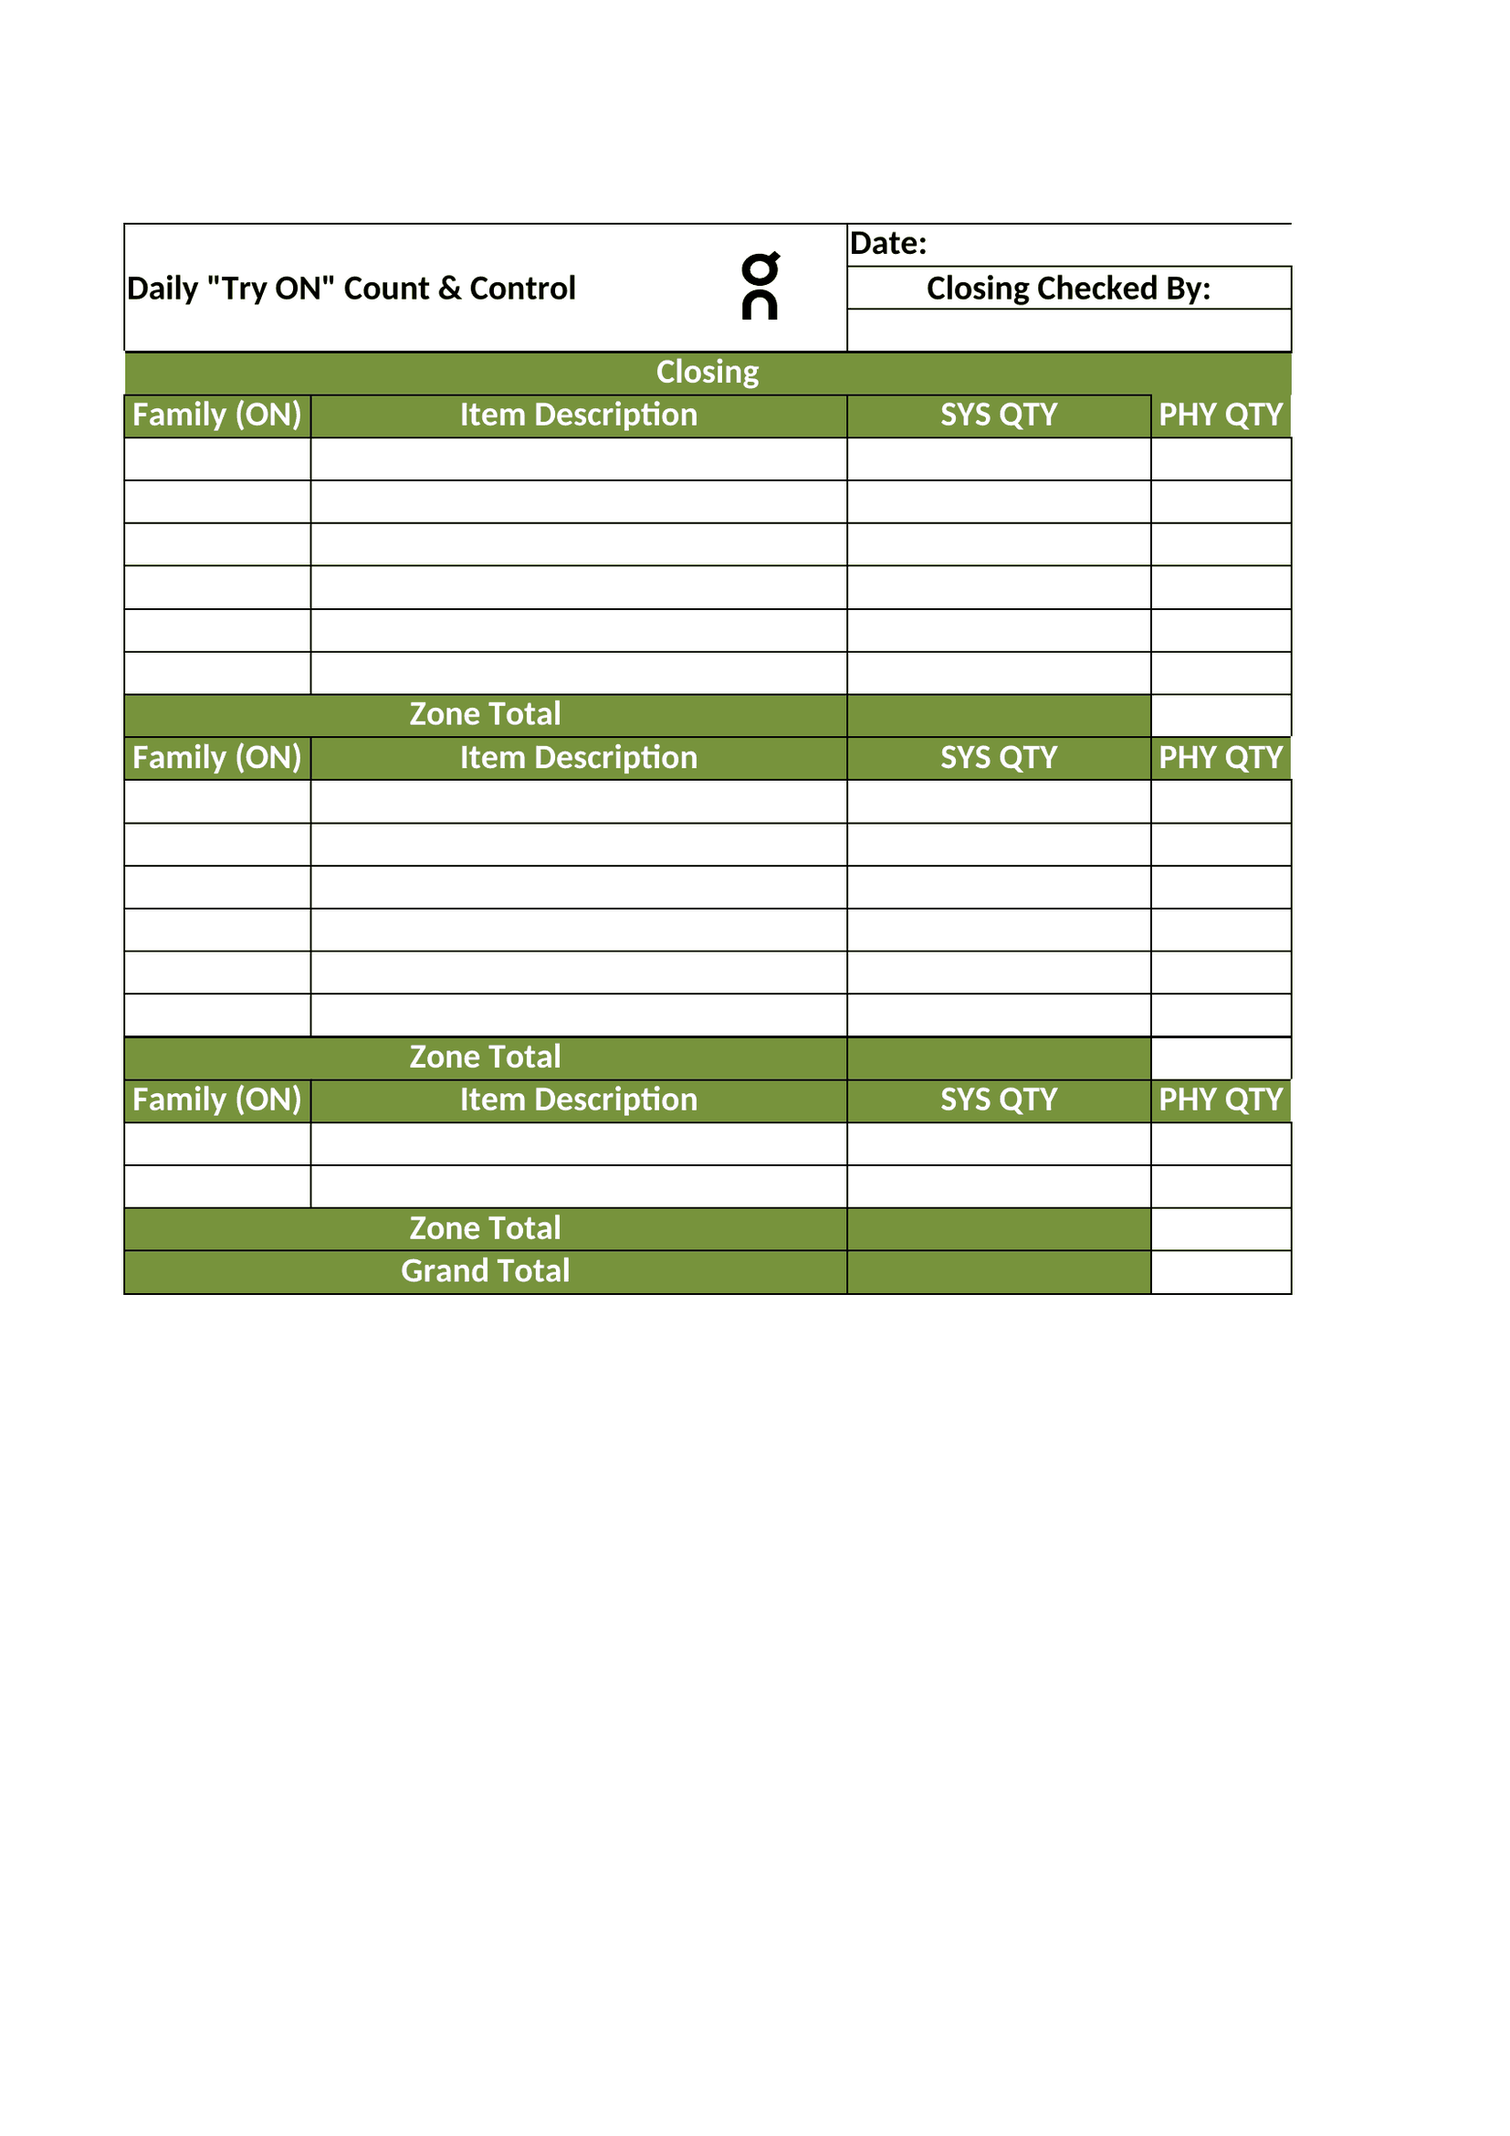
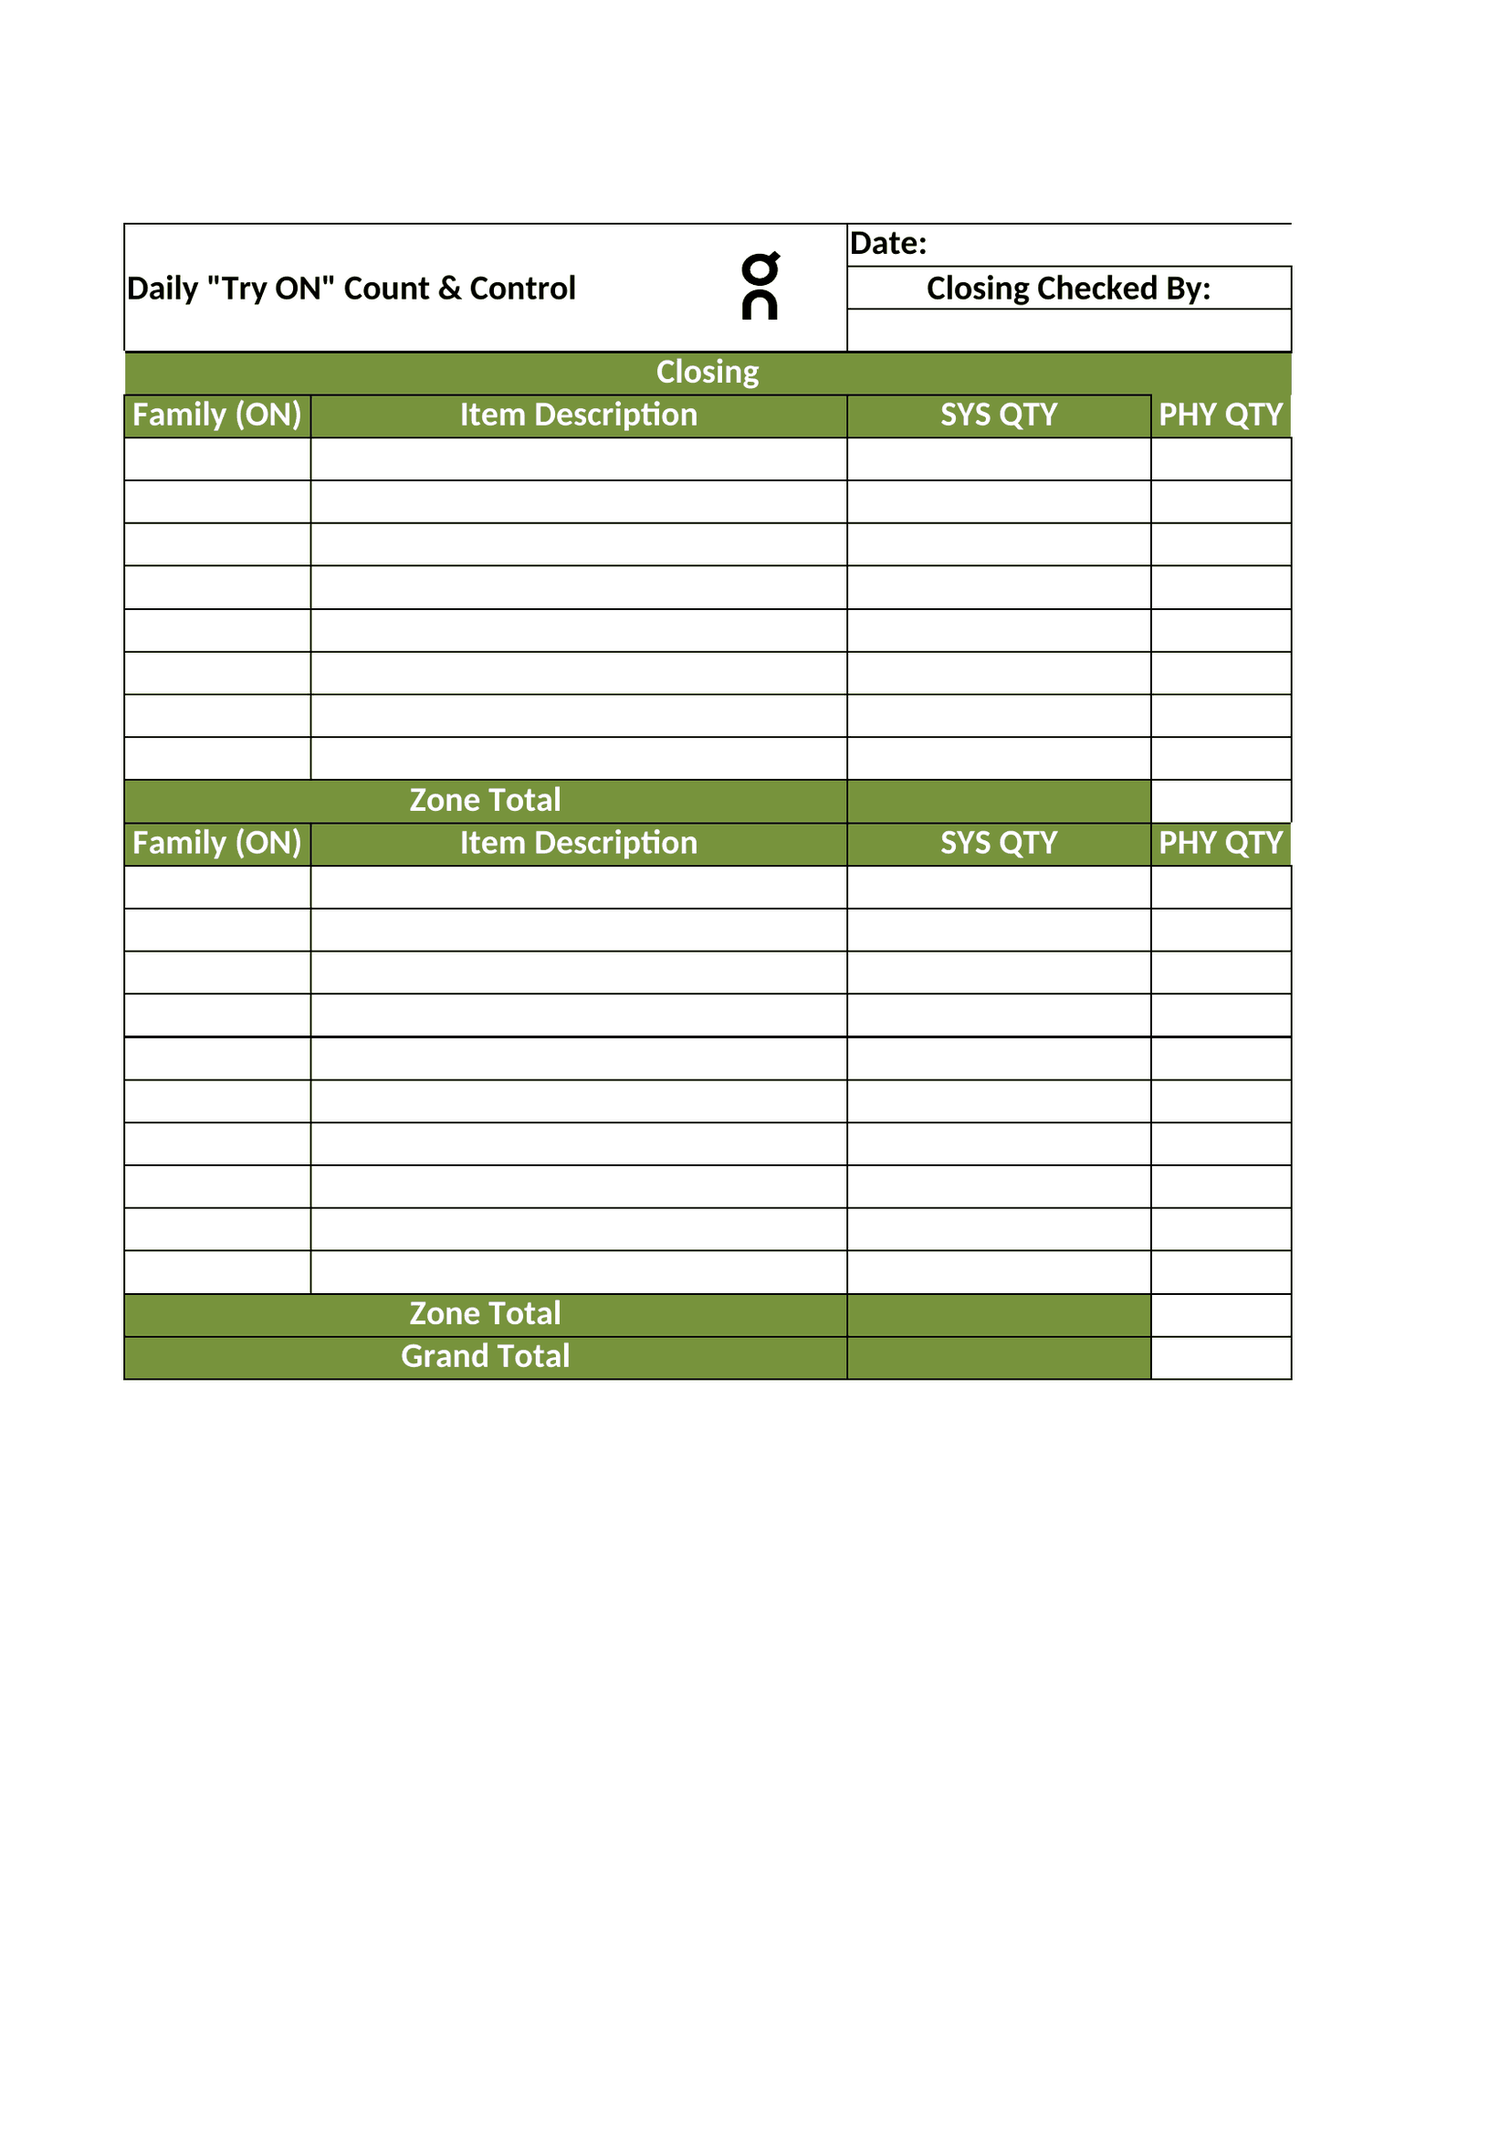
Update Try ON list to the 18 floor models
Two walls of 8 and 10 models; the printed Try ON form now has 8 and 10
lines to match, and the count is split by wall.

Claude-Session: https://claude.ai/code/session_01BJyxJzqPMVHUHuDQS33MQi

Changed region(s): [[0.0617, 0.3121, 0.8634, 0.4057], [0.0617, 0.5618, 0.7709, 0.6554], [0.0617, 0.4681, 0.8634, 0.5306]]

diff --git a/index.html b/index.html
@@ -493,9 +493,14 @@ const BINDER = [["A", "Opening and Closing Checklist", ["opening", "closing"]], 
   ["O", "Daily Random Stock Check", ["stockcheck"]], ["Q", "Stock Discrepancy Summary", ["discrepancy"]], ["R", "Daily Cash Handover", ["cashhandover"]], ["S", "Banking Deposit Log", ["banking"]],
   ["T", "Permit Copies", []], ["XYZ", "Return / Refund Log, Product of the Week sheet and others", ["refund", "potw"]]];
 
+/* Try ON models on the shop floor: two walls. Settings can replace this list. */
+const TRY_CAP = { z1: 8, z2: 10 };
+const TRYON_DEF = { z1: ["Cloudboom Max", "Cloudmonster 3", "Cloudsurfer Max", "Cloudsurfer 2", "Cloudrunner 3", "Cloudpulse 2", "Cloud X Tempo Pro", "Cloud X 5"].map(item => ({ fam: "Wall 1", item, sys: "" })),
+  z2: ["Cloud 6", "Cloud 6 Coast", "Cloud 6 Versa", "Cloudtilt", "Cloudswift 4", "Cloudnova 2", "Cloudzone 99", "Cloud Muse", "THE ROGER Advantage", "THE ROGER Pro 3"].map(item => ({ fam: "Wall 2", item, sys: "" })) };
+const tryonCfg = () => { const c = S.cfg || {}, t = c.tryonV === 2 && c.tryon ? c.tryon : TRYON_DEF; return { z1: (t.z1 || []).slice(0, TRY_CAP.z1), z2: (t.z2 || []).slice(0, TRY_CAP.z2) }; };
 function tryonFields() {                     // one question per try-on model
-  const t = (S.cfg && S.cfg.tryon) || {}; const out = [];
-  ["z1", "z2", "z3"].forEach(z => (t[z] || []).forEach((it, i) => { if (it && it.item) out.push({ k: `${z}_${i}`, g: z, t: "num", q: q(`${it.item}: how many pairs are on the floor?`, `${it.item}: كم زوجاً موجود في الصالة؟`), hint: it.sys !== "" && it.sys != null ? q(`System quantity: ${it.sys}`, `كمية النظام: ${it.sys}`) : null }); }));
+  const t = tryonCfg(); const out = [];
+  ["z1", "z2"].forEach(z => (t[z] || []).forEach((it, i) => { if (it && it.item) out.push({ k: `${z}_${i}`, g: z, t: "num", q: q(`${it.item}: how many pairs are on the floor?`, `${it.item}: كم زوجاً موجود في الصالة؟`), hint: it.sys !== "" && it.sys != null ? q(`System quantity: ${it.sys}`, `كمية النظام: ${it.sys}`) : null }); }));
   out.push({ k: "checkedBy", t: "staff", q: q("Closing checked by", "تم الفحص عند الإغلاق بواسطة"), def: "me" });
   return out;
 }
@@ -629,15 +634,15 @@ const SHEETS = {
     const ty = lin(506, 626, 8), xs = [18, 100, 161, 221, 349, 444];
     (d.team || []).slice(0, 8).forEach((m, i) => [shortName(m.who), m.timing, m.ysale && money(m.ysale), m.ttarget && money(m.ttarget), m.mtd].forEach((v, ci) => tx(c, v, xs[ci], ty[i], xs[ci + 1], ty[i + 1], { max: 7, bold: ci === 0 })));
   } }]; },
-  tryon(r) { const d = r.data, t = (S.cfg && S.cfg.tryon) || {}; return [{ bg: "tryon", draw(c) {
+  tryon(r) { const d = r.data, t = tryonCfg(); return [{ bg: "tryon", draw(c) {
     tx(c, fmtD(r.date), 366, 88, 508, 105, { align: "l", max: 9 }); tx(c, nameId(d.checkedBy), 336, 122, 508, 139, { max: 8 });
-    const zones = [["z1", 173, 274, 6, 274], ["z2", 308, 409, 6, 409], ["z3", 443, 476.5, 2, 476.5]]; let gs = 0, gp = 0, anyS = false, anyP = false;
+    const zones = [["z1", 173, 307.6, 8, 307.6], ["z2", 341.3, 509.6, 10, 509.6]]; let gs = 0, gp = 0, anyS = false, anyP = false;
     zones.forEach(([z, a, b, n, ty]) => { const ys = lin(a, b, n); let ss = 0, sp = 0, hs = false, hp = false;
       (t[z] || []).slice(0, n).forEach((it, i) => { if (!it || !it.item) return; const p = d[`${z}_${i}`];
         tx(c, it.fam, 49, ys[i], 123, ys[i + 1], { align: "l", max: 9 }); tx(c, it.item, 123, ys[i], 334, ys[i + 1], { align: "l", max: 9 }); tx(c, it.sys, 334, ys[i], 454, ys[i + 1], { max: 9 }); tx(c, p, 454, ys[i], 509, ys[i + 1], { max: 9 });
         if (num(it.sys) !== null) { ss += num(it.sys); hs = true; } if (num(p) !== null) { sp += num(p); hp = true; } });
       if (hs) { tx(c, ss, 334, ty, 454, ty + 16.8, { max: 9, bold: 1 }); gs += ss; anyS = true; } if (hp) { tx(c, sp, 454, ty, 509, ty + 16.8, { max: 9, bold: 1 }); gp += sp; anyP = true; } });
-    if (anyS) tx(c, gs, 334, 493.3, 454, 510, { max: 9, bold: 1 }); if (anyP) tx(c, gp, 454, 493.3, 509, 510, { max: 9, bold: 1 });
+    if (anyS) tx(c, gs, 334, 526.6, 454, 543.4, { max: 9, bold: 1 }); if (anyP) tx(c, gp, 454, 526.6, 509, 543.4, { max: 9, bold: 1 });
   } }]; },
   feedback(r) { const d = r.data; return [{ bg: "feedback", draw(c) {
     tx(c, storeLine(), 47, 115, 279, 125, { align: "l", max: 7 }); tx(c, fmtD(r.date), 320, 115, 558, 125, { align: "l", max: 7 });
@@ -750,9 +755,9 @@ function defaultWho(id, date) {
 const GROUP_ROLE = { floor: "ss", cash: "dsm", stock: "sc", admin: "dsm", exit: "dsm" };
 const roleWho = (role, date) => { const c = staffList().filter(s => s.role === role && !isOff(date, s.id)); return c.length ? c[0].id : ""; };
 const splitable = f => (f.kind === "check" && !f.weekly) || !!f.zones;
-const groupLabel = (id, g) => { if (!FORMS[id].zones) return L(GROUPS[g]); const z = ((S.cfg && S.cfg.tryon) || {})[g] || [], n = z.filter(i => i && i.item).length, fam = (z.find(i => i && i.fam) || {}).fam; return `${fam || "Part " + g.slice(1)} (${n})`; };
-function groupWho(id, g, date) { if (!FORMS[id].zones) return roleWho(GROUP_ROLE[g], date); const l = staffList().filter(s => (s.role === "ss" || s.role === "sa") && !isOff(date, s.id)); return l.length ? l[["z1", "z2", "z3"].indexOf(g) % l.length].id : ""; }
-function groupsOf(id) { if (FORMS[id].zones) return ["z1", "z2", "z3"].filter(z => (((S.cfg && S.cfg.tryon) || {})[z] || []).some(i => i && i.item)); const seen = []; FORMS[id].items.forEach(it => { if (!seen.includes(it.g)) seen.push(it.g); }); return seen; }
+const groupLabel = (id, g) => { if (!FORMS[id].zones) return L(GROUPS[g]); const z = tryonCfg()[g] || [], n = z.filter(i => i && i.item).length, fam = (z.find(i => i && i.fam) || {}).fam; return `${fam || "Part " + g.slice(1)} (${n})`; };
+function groupWho(id, g, date) { if (!FORMS[id].zones) return roleWho(GROUP_ROLE[g], date); const l = staffList().filter(s => (s.role === "ss" || s.role === "sa") && !isOff(date, s.id)); return l.length ? l[["z1", "z2"].indexOf(g) % l.length].id : ""; }
+function groupsOf(id) { if (FORMS[id].zones) return ["z1", "z2"].filter(z => (tryonCfg()[z] || []).some(i => i && i.item)); const seen = []; FORMS[id].items.forEach(it => { if (!seen.includes(it.g)) seen.push(it.g); }); return seen; }
 function taskDone(id, date, group) {
   const f = FORMS[id], rid2 = runId(id, date), [a, b] = periodOf(id, date);
   if (f.kind === "check") { const r = S.recs.get(rid2); if (!r) return false; if (!group) return !!r.done; return f.items.filter(it => it.g === group).every(it => r.data.items && r.data.items[it.id]); }
@@ -1514,14 +1519,14 @@ function myDayCard(me) {
 /* ===================== settings ===================== */
 const FREQS = [["daily", "Every day", "كل يوم"], ["weekly", "Every week", "كل أسبوع"], ["monthly", "Every month", "كل شهر"], ["quarterly", "Every quarter", "كل ربع سنة"], ["event", "Only when it happens", "عند الحدوث فقط"]];
 VIEWS.config = () => {
-  const tab = R.tab || "team", st = S.cfg.store || {}, hd = S.cfg.huddle || {}, ty = S.cfg.tryon || {};
+  const tab = R.tab || "team", st = S.cfg.store || {}, hd = S.cfg.huddle || {}, ty = tryonCfg();
   const tabs = [["team", LANG === "ar" ? "الفريق" : "Team"], ["sched", LANG === "ar" ? "الجدول" : "Schedule"], ["store", LANG === "ar" ? "المتجر" : "Store"], ["lists", LANG === "ar" ? "القوائم" : "Lists"]];
   let h = `<h1>${T("config")}</h1><div class="row">${tabs.map(([k, l]) => `<button class="chip ${tab === k ? "acc" : ""}" data-tab="${k}" style="border:0;padding:9px 14px;font-size:.9rem">${l}</button>`).join("")}</div>`;
   if (tab === "team") h += `<div class="list">${staffList(true).map(s => `<button data-st="${esc(s.id)}" class="row" style="text-align:start;background:none;border-left:0;border-right:0;border-bottom:0;width:100%"><span class="grow"><b>${esc(s.name)}</b><div class="small muted">${esc(L(ROLES[s.role]))} · <span class="num">${esc(s.id)}</span>${s.active === false ? " · " + (LANG === "ar" ? "غير نشط" : "not active") : ""}${s.pin ? "" : " · " + (LANG === "ar" ? "لم يحدد رقماً سرياً بعد" : "no PIN yet")}</div></span>${ICON.chev}</button>`).join("")}</div><button class="btn soft" id="cfAdd">+ ${LANG === "ar" ? "إضافة موظف" : "Add a team member"}</button>`;
   if (tab === "store") h += `<div class="card stack"><div class="field"><label for="cfName">${LANG === "ar" ? "اسم المتجر (كما يُطبع)" : "Store name (as printed on the forms)"}</label><input class="in" id="cfName" value="${esc(st.name || "")}"></div><div class="field"><label for="cfCode">${LANG === "ar" ? "رمز الموقع" : "Location code"}</label><input class="in" id="cfCode" value="${esc(st.code || "")}"></div><button class="btn" id="cfStore">${T("save")}</button></div>
     <p class="muted small">${LANG === "ar" ? "متجر آخر؟ اطلب نسخة خاصة به من هذا التطبيق، ثم غيّر الاسم والفريق والجدول هنا." : "Another store needs its own copy of this app. It then sets its own name, team and schedule here."}</p>`;
   if (tab === "lists") h += `<div class="card stack"><h3>${LANG === "ar" ? "أرقام الاجتماع اليومي الثابتة" : "Daily Huddle: numbers that stay the same"}</h3>${[["monthTarget", "Month target (SAR)"], ["uptGoal", "UPT goal"], ["atvGoal", "ATV goal (SAR)"], ["convGoal", "Conversion goal (%)"]].map(([k, l]) => `<div class="field"><label for="hd_${k}">${l}</label><input class="in num" id="hd_${k}" inputmode="decimal" value="${esc(hd[k] || "")}"></div>`).join("")}<button class="btn" id="cfHud">${T("save")}</button></div>
-    <div class="card stack"><h3>${LANG === "ar" ? "قائمة أحذية التجربة" : "Try ON shoe list"}</h3><p class="small muted">${LANG === "ar" ? "سطر لكل موديل: الفئة، اسم الموديل، كمية النظام." : "One line per model: family, model name, system quantity."}</p>${[["z1", "Zone 1 (up to 6 lines)"], ["z2", "Zone 2 (up to 6 lines)"], ["z3", "Zone 3 (up to 2 lines)"]].map(([z, l]) => `<div class="field"><label for="ty_${z}">${l}</label><textarea class="in" id="ty_${z}" rows="${z === "z3" ? 3 : 6}">${esc((ty[z] || []).map(i => [i.fam, i.item, i.sys].join(", ")).join("\n"))}</textarea></div>`).join("")}<button class="btn" id="cfTry">${T("save")}</button></div>`;
+    <div class="card stack"><h3>${LANG === "ar" ? "قائمة أحذية التجربة" : "Try ON shoe list"}</h3><p class="small muted">${LANG === "ar" ? "سطر لكل موديل: الفئة، اسم الموديل، كمية النظام." : "One line per model: family, model name, system quantity."}</p>${[["z1", "Wall 1 (up to 8 lines)"], ["z2", "Wall 2 (up to 10 lines)"]].map(([z, l]) => `<div class="field"><label for="ty_${z}">${l}</label><textarea class="in" id="ty_${z}" rows="${z === "z1" ? 8 : 10}">${esc((ty[z] || []).map(i => [i.fam, i.item, i.sys].join(", ")).join("\n"))}</textarea></div>`).join("")}<button class="btn" id="cfTry">${T("save")}</button></div>`;
   if (tab === "sched") h += `<p class="muted">${LANG === "ar" ? "متى يُطلب كل نموذج ومن ينفذه افتراضياً. يمكنك تغيير أي يوم من صفحة الخطة." : "When each form is due and who does it by default. Any single day can be changed on the Plan page."}</p><div class="stack">${FORM_ORDER.map(id => { const c = cfgForm(id), f = FORMS[id]; return `<div class="card stack" data-fc="${id}"><div class="row"><span class="chip acc">${esc(f.letter)}</span><b class="grow">${esc(L(f.title))}</b><label class="row small" style="gap:6px"><input type="checkbox" data-f="on" ${c.on !== false ? "checked" : ""} style="width:20px;height:20px">${LANG === "ar" ? "مفعّل" : "In use"}</label></div>
       <div class="row"><select class="in grow" data-f="freq" aria-label="How often">${FREQS.map(([v, en, ar]) => `<option value="${v}" ${c.freq === v ? "selected" : ""}>${LANG === "ar" ? ar : en}</option>`).join("")}</select>
       ${c.freq === "weekly" ? `<select class="in" data-f="dow" style="width:auto" aria-label="Day">${DOW.map((n, i) => `<option value="${i}" ${(c.dow ?? 0) === i ? "selected" : ""}>${(LANG === "ar" ? DOW_AR : DOW)[i]}</option>`).join("")}</select>` : ""}
@@ -1537,7 +1542,7 @@ HOOKS.config = app => {
   const add = $("#cfAdd", app); if (add) add.onclick = () => staffEditor(null);
   const sv = $("#cfStore", app); if (sv) sv.onclick = () => { Data.saveCfg({ store: { name: $("#cfName", app).value.trim(), code: $("#cfCode", app).value.trim() } }); toast(T("saved")); };
   const hu = $("#cfHud", app); if (hu) hu.onclick = () => { const o2 = {}; ["monthTarget", "uptGoal", "atvGoal", "convGoal"].forEach(k => { o2[k] = $("#hd_" + k, app).value.trim(); }); Data.saveCfg({ huddle: o2 }); toast(T("saved")); };
-  const tr = $("#cfTry", app); if (tr) tr.onclick = () => { const o2 = {}; [["z1", 6], ["z2", 6], ["z3", 2]].forEach(([z, n]) => { o2[z] = $("#ty_" + z, app).value.split("\n").map(l => l.trim()).filter(Boolean).slice(0, n).map(l => { const p = l.split(",").map(x => x.trim()); return { fam: p[0] || "", item: p[1] || "", sys: p[2] || "" }; }); }); Data.saveCfg({ tryon: o2 }); toast(T("saved")); };
+  const tr = $("#cfTry", app); if (tr) tr.onclick = () => { const o2 = {}; [["z1", 8], ["z2", 10]].forEach(([z, n]) => { o2[z] = $("#ty_" + z, app).value.split("\n").map(l => l.trim()).filter(Boolean).slice(0, n).map(l => { const p = l.split(",").map(x => x.trim()); return { fam: p[0] || "", item: p[1] || "", sys: p[2] || "" }; }); }); Data.saveCfg({ tryonV: 2, tryon: o2 }); toast(T("saved")); };
   app.querySelectorAll("[data-fc]").forEach(card => card.querySelectorAll("[data-f]").forEach(inp => inp.onchange = () => { const k = inp.dataset.f, v = inp.type === "checkbox" ? inp.checked : (k === "dow" || k === "dom" ? +inp.value : inp.value); Data.saveCfg({ forms: { [card.dataset.fc]: { [k]: v } } }); }));
 };
 function staffEditor(id) {
